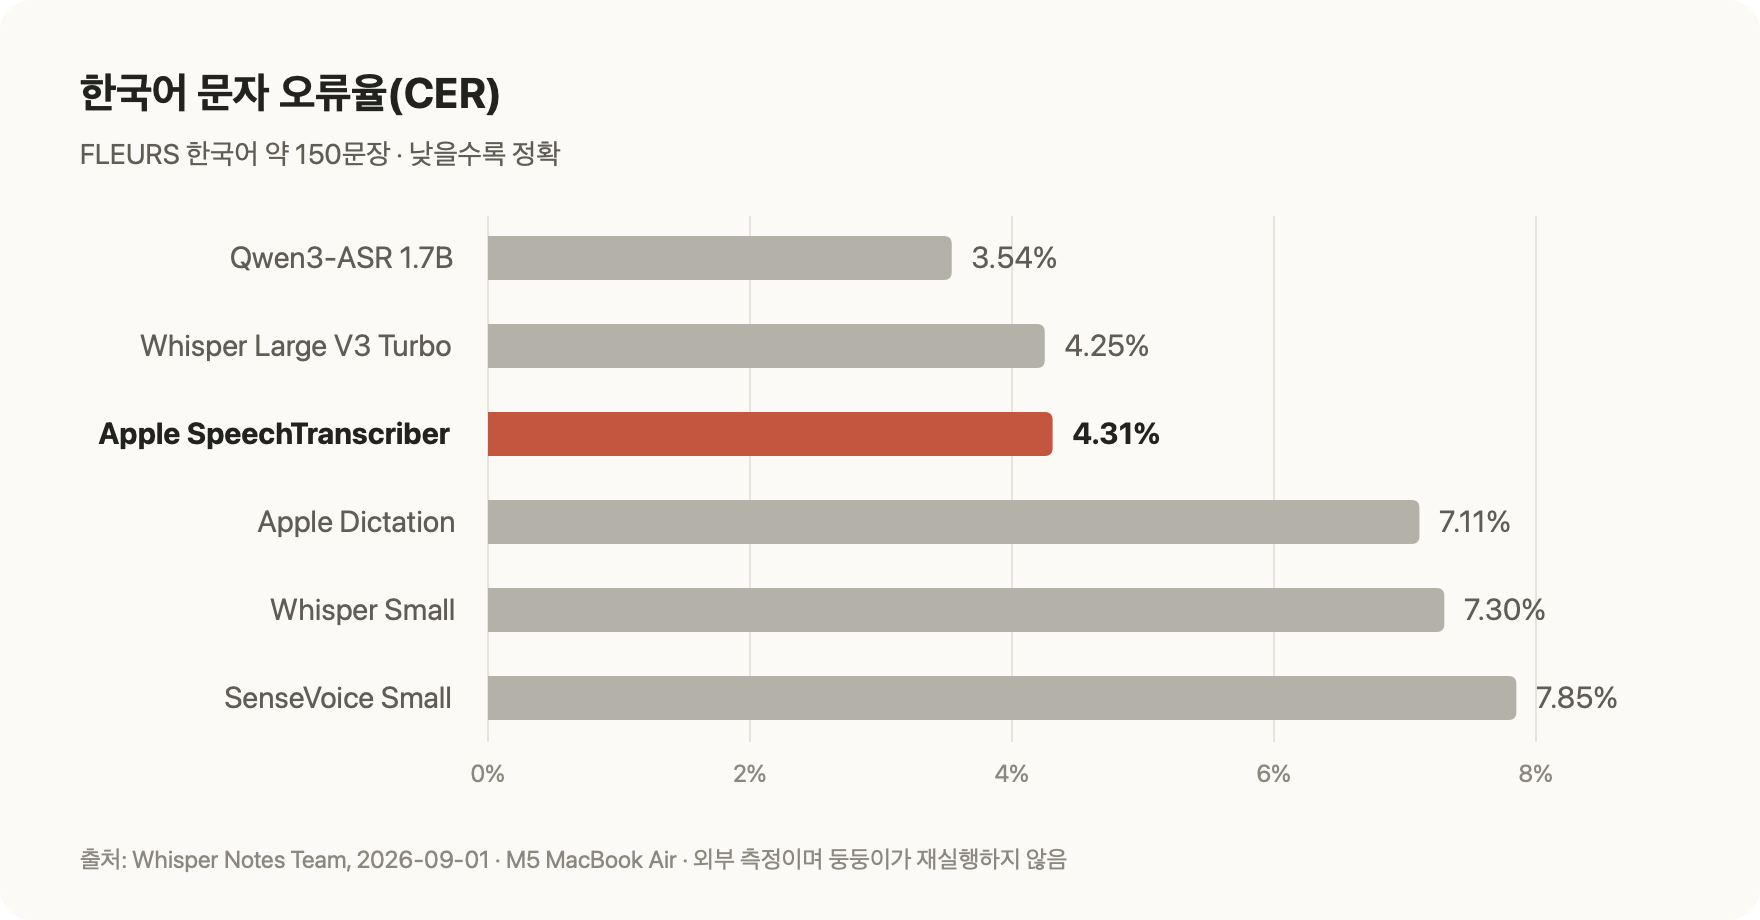
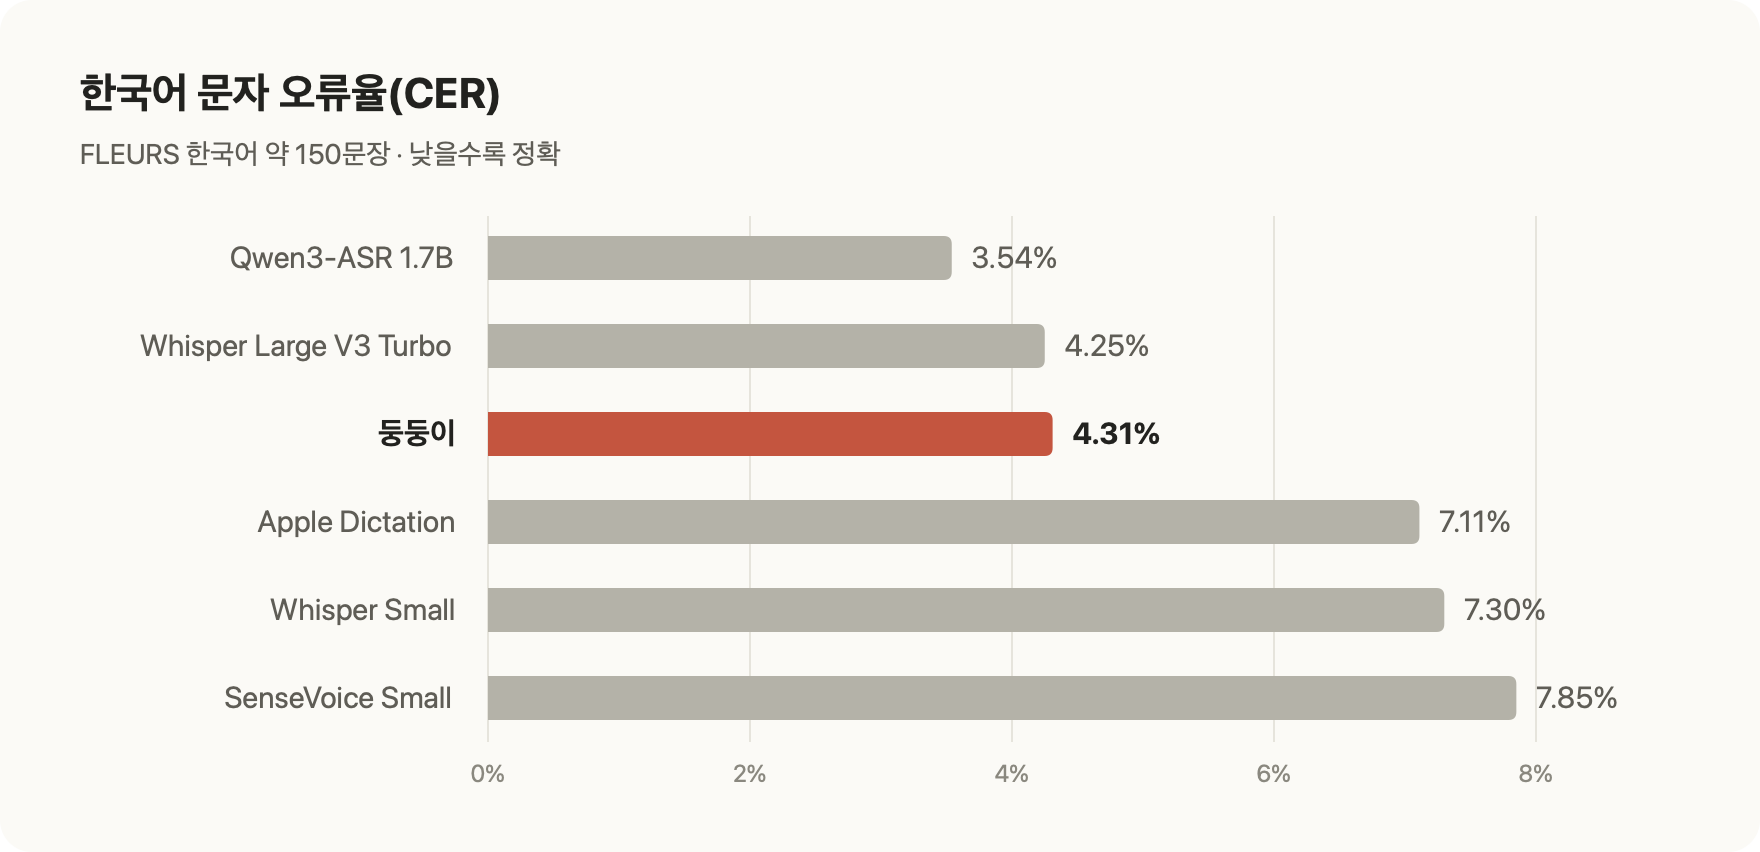
docs: label evidence charts as 둥둥이 and drop footnotes

diff --git a/scripts/render-readme-charts.py b/scripts/render-readme-charts.py
@@ -14,9 +14,9 @@ def bar(x, y, w, h, color):
     return (f'<path d="M{x},{y} H{x + w - r} Q{x + w},{y} {x + w},{y + r} V{y + h - r} '
             f'Q{x + w},{y + h} {x + w - r},{y + h} H{x} Z" fill="{color}"/>')
 
-def chart(name, title, subtitle, rows, maximum, ticks, unit, note, bar_h=22, gap=22):
+def chart(name, title, subtitle, rows, maximum, ticks, unit, bar_h=22, gap=22):
     top = 118
-    height = top + len(rows) * (bar_h + gap) + 78
+    height = top + len(rows) * (bar_h + gap) + 44
     plot = W - LEFT - RIGHT
     scale = lambda v: plot * v / maximum
     parts = [f'<svg xmlns="http://www.w3.org/2000/svg" width="{W}" height="{height}" viewBox="0 0 {W} {height}" font-family="{FONT}">',
@@ -35,23 +35,20 @@ def chart(name, title, subtitle, rows, maximum, ticks, unit, note, bar_h=22, gap
         parts.append(f'<text x="{LEFT - 16}" y="{y + bar_h / 2 + 5}" font-size="15" font-weight="{weight}" fill="{INK if strong else SOFT}" text-anchor="end">{escape(label)}</text>')
         parts.append(bar(LEFT, y, max(scale(value), 2), bar_h, HIGHLIGHT if strong else CONTEXT))
         parts.append(f'<text x="{LEFT + scale(value) + 10}" y="{y + bar_h / 2 + 5}" font-size="15" font-weight="{weight}" fill="{INK if strong else SOFT}">{escape(text)}</text>')
-    parts.append(f'<text x="40" y="{height - 26}" font-size="12" fill="{MUTED}">{escape(note)}</text>')
     parts.append('</svg>')
     (out / f"{name}.svg").write_text("\n".join(parts))
 
 chart("transcription-speed",
       "같은 15분 강의를 전사하는 데 걸린 시간",
       "금융 강의 15분 · 같은 18개 구간 · 교정·요약 제외 · 짧을수록 빠름",
-      [("Apple Speech", 9.37, "9.37초 · 약 12.3배 빠름", True), ("기존 Whisper 구현", 115.64, "115.64초", False)],
-      120, [0, 30, 60, 90, 120], "초",
-      "둥둥이 자체 측정 · MacBook Air M1 8GB · macOS 26.3 · whisper.cpp large-v3-turbo + Silero VAD · 조건별 1회", bar_h=24, gap=26)
+      [("둥둥이", 9.37, "9.37초 · 약 12.3배 빠름", True), ("기존 Whisper 구현", 115.64, "115.64초", False)],
+      120, [0, 30, 60, 90, 120], "초", bar_h=24, gap=26)
 
 chart("korean-cer",
       "한국어 문자 오류율(CER)",
       "FLEURS 한국어 약 150문장 · 낮을수록 정확",
       [("Qwen3-ASR 1.7B", 3.54, "3.54%", False), ("Whisper Large V3 Turbo", 4.25, "4.25%", False),
-       ("Apple SpeechTranscriber", 4.31, "4.31%", True), ("Apple Dictation", 7.11, "7.11%", False),
+       ("둥둥이", 4.31, "4.31%", True), ("Apple Dictation", 7.11, "7.11%", False),
        ("Whisper Small", 7.30, "7.30%", False), ("SenseVoice Small", 7.85, "7.85%", False)],
-      8, [0, 2, 4, 6, 8], "%",
-      "출처: Whisper Notes Team, 2026-09-01 · M5 MacBook Air · 외부 측정이며 둥둥이가 재실행하지 않음")
+      8, [0, 2, 4, 6, 8], "%")
 print("charts written to", out)

diff --git a/README.md b/README.md
@@ -44,15 +44,15 @@
 
 ### 15분 강의를 약 9초 만에
 
-M1·8GB MacBook Air에서 같은 금융 강의 15분을 같은 18개 구간으로 나눠 비교했습니다. Apple Speech는 **9.37초**, 이전에 쓰던 Whisper 구현은 **115.64초**로 약 **12.3배** 빨랐습니다.
+M1·8GB MacBook Air에서 같은 금융 강의 15분을 같은 18개 구간으로 나눠 비교했습니다. 둥둥이는 **9.37초**, 이전에 쓰던 Whisper 구현은 **115.64초**로 약 **12.3배** 빨랐습니다.
 
-![같은 15분 금융 강의 전사 시간 막대 그래프. Apple Speech 9.37초, 기존 Whisper 구현 115.64초](assets/readme/charts/transcription-speed.png)
+![같은 15분 금융 강의 전사 시간 막대 그래프. 둥둥이 9.37초, 기존 Whisper 구현 115.64초](assets/readme/charts/transcription-speed.png)
 
 ### 한국어 정확도는 Whisper Large V3 Turbo와 비슷하게
 
-공개 한국어 낭독 벤치마크(FLEURS)에서 Apple SpeechTranscriber의 문자 오류율은 **4.31%** 로, Whisper Large V3 Turbo(**4.25%**)와 0.06%p 차이였습니다. Apple의 이전 받아쓰기 모델(7.11%)이나 Whisper Small(7.30%)보다 오류가 적습니다.
+공개 한국어 낭독 벤치마크(FLEURS)에서 둥둥이가 쓰는 Apple SpeechTranscriber의 문자 오류율은 **4.31%** 로, Whisper Large V3 Turbo(**4.25%**)와 0.06%p 차이였습니다. Apple의 이전 받아쓰기 모델(7.11%)이나 Whisper Small(7.30%)보다 오류가 적습니다.
 
-![한국어 문자 오류율 막대 그래프. Qwen3-ASR 1.7B 3.54%, Whisper Large V3 Turbo 4.25%, Apple SpeechTranscriber 4.31%, Apple Dictation 7.11%, Whisper Small 7.30%, SenseVoice Small 7.85%](assets/readme/charts/korean-cer.png)
+![한국어 문자 오류율 막대 그래프. Qwen3-ASR 1.7B 3.54%, Whisper Large V3 Turbo 4.25%, 둥둥이 4.31%, Apple Dictation 7.11%, Whisper Small 7.30%, SenseVoice Small 7.85%](assets/readme/charts/korean-cer.png)
 ### 모델은 macOS가 관리
 
 언어 모델을 한 번 준비해 두면 인터넷 없이도 음성을 인식합니다. 모델 저장과 업데이트는 시스템이 맡으니 따로 내려받고 관리할 필요가 없습니다.
